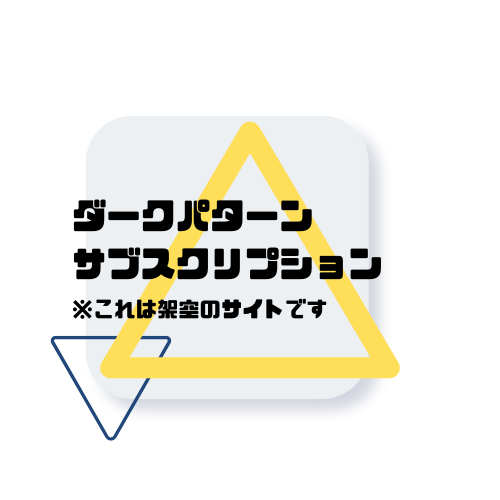
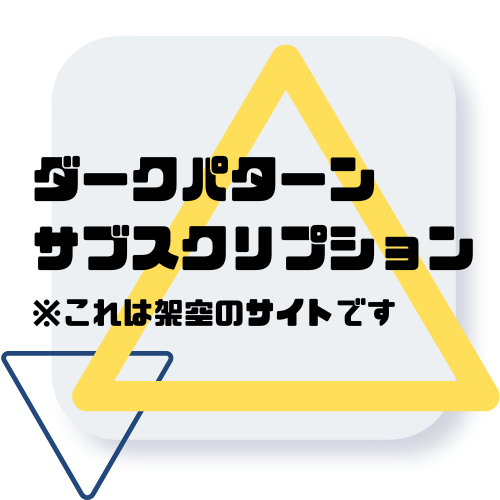
error 修正（next/link）

diff --git a/src/components/contents.tsx/Subscription.tsx/SubscriptionHeader.tsx b/src/components/contents.tsx/Subscription.tsx/SubscriptionHeader.tsx
@@ -1,6 +1,6 @@
 import Image from "next/image";
-import Logo from "../../public/favicon.ico";
 import { Fragment, useState } from "react";
+import DarkPatternsSubscription from "../../../../public/DarkPatternsSubscription.png"
 import { Dialog, Disclosure, Popover, Transition } from "@headlessui/react";
 import {
   Bars3Icon,
@@ -14,7 +14,6 @@ import {
   ChatBubbleLeftRightIcon,
   ShareIcon
 } from "@heroicons/react/20/solid";
-import Link from "next/link";
 
 const products = [
   {
@@ -36,7 +35,7 @@ function classNames(...classes: any[]) {
   return classes.filter(Boolean).join(" ");
 }
 
-export default function Header() {
+export default function SubScriptionHeader() {
   const [mobileMenuOpen, setMobileMenuOpen] = useState(false);
 
   return (
@@ -46,18 +45,18 @@ export default function Header() {
         aria-label="Global"
       >
         <div className="flex lg:flex-1">
-          <Link href="/" className="-m-1.5 p-1.5">
+          <a href="/" className="-m-1.5 p-1.5">
             <span className="sr-only">Home</span>
             <Image
-              src={Logo}
+              src={DarkPatternsSubscription}
               alt="open-dark-patterns logo"
-              width={40}
-              height={40}
+              width={60}
+              height={60}
               loader={({ src, width, quality }) =>
                 `${src}?w=${width}&q=${quality || 75}`
               }
             />
-          </Link>
+          </a>
         </div>
         <div className="flex lg:hidden">
           <button
@@ -102,13 +101,13 @@ export default function Header() {
                         />
                       </div>
                       <div className="flex-auto">
-                        <Link
+                        <a
                           href={item.href}
                           className="block font-semibold text-gray-900"
                         >
                           {item.name}
                           <span className="absolute inset-0" />
-                        </Link>
+                        </a>
                         <p className="mt-1 text-gray-600">{item.description}</p>
                       </div>
                     </div>
@@ -116,7 +115,7 @@ export default function Header() {
                 </div>
                 <div className="grid grid-cols-2 divide-x divide-gray-900/5 bg-gray-50">
                   {callsToAction.map((item) => (
-                    <Link
+                    <a
                       key={item.name}
                       href={item.href}
                       className="flex items-center justify-center gap-x-2.5 p-3 text-sm font-semibold leading-6 text-gray-900 hover:bg-gray-100"
@@ -126,25 +125,25 @@ export default function Header() {
                         aria-hidden="true"
                       />
                       {item.name}
-                    </Link>
+                    </a>
                   ))}
                 </div>
               </Popover.Panel>
             </Transition>
           </Popover>
 
-          <Link
+          <a
             href="/contents"
             className="text-sm font-semibold leading-6 text-gray-900"
           >
             Contents
-          </Link>
-          <Link
+          </a>
+          <a
             href="/about"
             className="text-sm font-semibold leading-6 text-gray-900"
           >
             philosophy
-          </Link>
+          </a>
         </Popover.Group>
       </nav>
       <Dialog
@@ -156,10 +155,10 @@ export default function Header() {
         <div className="fixed inset-0 z-10" />
         <Dialog.Panel className="fixed inset-y-0 right-0 z-10 w-full overflow-y-auto bg-white px-6 py-6 sm:max-w-sm sm:ring-1 sm:ring-gray-900/10">
           <div className="flex items-center justify-between">
-            <Link href="/" className="-m-1.5 p-1.5">
+            <a href="/" className="-m-1.5 p-1.5">
               <span className="sr-only">Home</span>
               <Image
-                src={Logo}
+                src={DarkPatternsSubscription}
                 alt="open-dark-patterns logo"
                 width={40}
                 height={40}
@@ -167,7 +166,7 @@ export default function Header() {
                   `${src}?w=${width}&q=${quality || 75}`
                 }
               />
-            </Link>
+            </a>
             <button
               type="button"
               className="-m-2.5 rounded-md p-2.5 text-gray-700"
@@ -180,18 +179,18 @@ export default function Header() {
           <div className="mt-6 flow-root">
             <div className="-my-6 divide-y divide-gray-500/10">
               <div className="space-y-2 py-6">
-                <Link
+                <a
                   href="/contents"
                   className="-mx-3 block rounded-lg px-3 py-2 text-base font-semibold leading-7 text-gray-900 hover:bg-gray-50"
                 >
                   Contents
-                </Link>
-                <Link
+                </a>
+                <a
                   href="/about"
                   className="-mx-3 block rounded-lg px-3 py-2 text-base font-semibold leading-7 text-gray-900 hover:bg-gray-50"
                 >
                   philosophy
-                </Link>
+                </a>
                 <Disclosure as="div" className="-mx-3">
                   {({ open }) => (
                     <>

diff --git a/src/components/module/typography.tsx b/src/components/module/typography.tsx
@@ -1,54 +1,38 @@
-const sketch = (p5:any) => {
-    let rotationAngle = 0;
-    let shapeSize = 10;
-    let shapeType = 0;
-  
-    p5.setup = () => {
-      p5.createCanvas(p5.windowWidth, p5.windowHeight);
-      p5.background(33, 33, 33);
-      p5.colorMode(p5.HSB, 255);
-    };
-  
-    p5.draw = () => {
-      p5.noStroke();
-      p5.translate(p5.width / 2, p5.height / 2);
-  
-      let numDrops = 10;
-      for (let i = 0; i < numDrops; i++) {
-        p5.fill(255);
-        let dropX = p5.random(-shapeSize, shapeSize);
-        let dropY = p5.random(-shapeSize, shapeSize);
-        p5.ellipse(dropX, dropY, shapeSize * 2, shapeSize * 2);
-      }
-  
-      p5.rotate(rotationAngle);
-  
-      if (shapeType === 0) {
-        p5.ellipse(0, 0, shapeSize * 2, shapeSize * 2);
-      } else {
-        let radius = shapeSize * 0.7;
-        let x1 = -radius * p5.cos(p5.PI / 6);
-        let y1 = radius * p5.sin(p5.PI / 6);
-        let x2 = 0;
-        let y2 = -radius;
-        let x3 = radius * p5.cos(p5.PI / 6);
-        let y3 = radius * p5.sin(p5.PI / 6);
-  
-        p5.triangle(x1, y1, x2, y2, x3, y3);
-      }
-  
-      shapeSize += 2;
-  
-      if (shapeSize > p5.max(p5.width, p5.height)) {
-        shapeSize = 10;
-        p5.background(33, 33, 33);
-        shapeType = (shapeType + 1) % 2;
-        rotationAngle = 0;
-      }
-  
-      rotationAngle += p5.radians(1);
-    };
-  };
-  
-  export default sketch;
-  
+// // P5Sketch.js
+// import { useEffect } from 'react';
+// import { Sketch } from 'react-p5-wrapper';
+
+// const sourceText = 'Life is short and art long';
+
+// const P5Sketch = () => {
+//   useEffect(() => {
+//     const sketch = (p:any) => {
+//       p.setup = () => {
+//         p.createCanvas(400, 400);
+//         p.frameRate(10);
+//       };
+
+//       p.draw = () => {
+//         p.background(50);
+//         p.fill(255);
+//         p.textSize(32);
+//         p.textAlign(p.CENTER, p.CENTER);
+
+//         const middle = sourceText.length / 2;
+//         const left = middle - ((p.mouseX / p.width) * middle);
+//         const right = middle + ((p.mouseX / p.width) * middle);
+
+//         p.text(sourceText.substring(left, right + 1), p.width / 2, p.height / 2);
+//       };
+//     };
+
+//     new window.p5(sketch); // Create a new p5 instance
+
+//     // Clean up the p5 instance on component unmount
+//     return () => window.remove();
+//   }, []);
+
+//   return <Sketch />;
+// };
+
+// export default P5Sketch;

diff --git a/src/pages/subscription.tsx b/src/pages/subscription.tsx
@@ -1,11 +1,13 @@
 import Image from "next/image";
 import { Inter } from "next/font/google";
+import SubScriptionHeader from "@/components/contents.tsx/Subscription.tsx/SubscriptionHeader";
 
 const inter = Inter({ subsets: ["latin"] });
 
 export default function Subscription() {
   return (
-    <main  className={`flex min-h-screen flex-col items-center justify-between p-24 `}>
+    <main  className={`flex min-h-screen flex-col items-center justify-between p-32 `}>
+      <SubScriptionHeader/>
       <>subscription</>
     </main>
   );

diff --git a/src/layout.tsx/Footer .tsx b/src/layout.tsx/Footer .tsx
@@ -4,7 +4,7 @@ import React from "react";
 
 const Footer = () => {
   return (
-    <footer className=" dark:bg-gray-900 bg-gray-700 py-6 lg:py-8">
+    <footer className=" dark:bg-gray-900 bg-gray-700 py-6 lg:py-8" style={{ marginLeft: "80px" ,marginRight: "80px"}}>
       <div className="p-4">
         <div className="md:flex md:justify-between">
           <div className="mb-6 md:mb-0">

diff --git a/src/pages/index.tsx b/src/pages/index.tsx
@@ -17,7 +17,7 @@ export default function Home() {
           <DarkPatternsDescription />
 
           <Card
-            href="/contents"
+            href="/subscription"
             imageSrc={DarkPatternsSubscription}
             alt="DarkPatternsSubscriptionIcon"
             title="オープンダークサブスクリプション"
